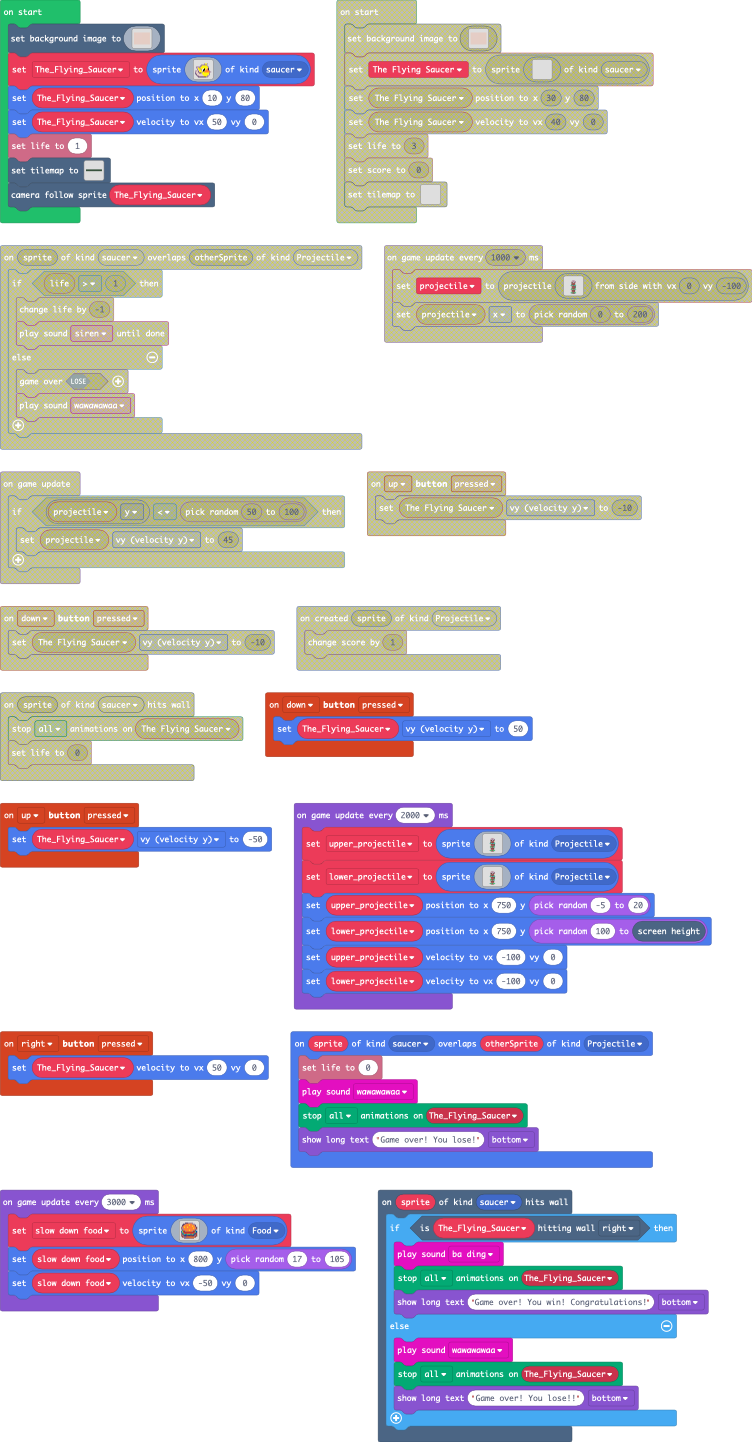
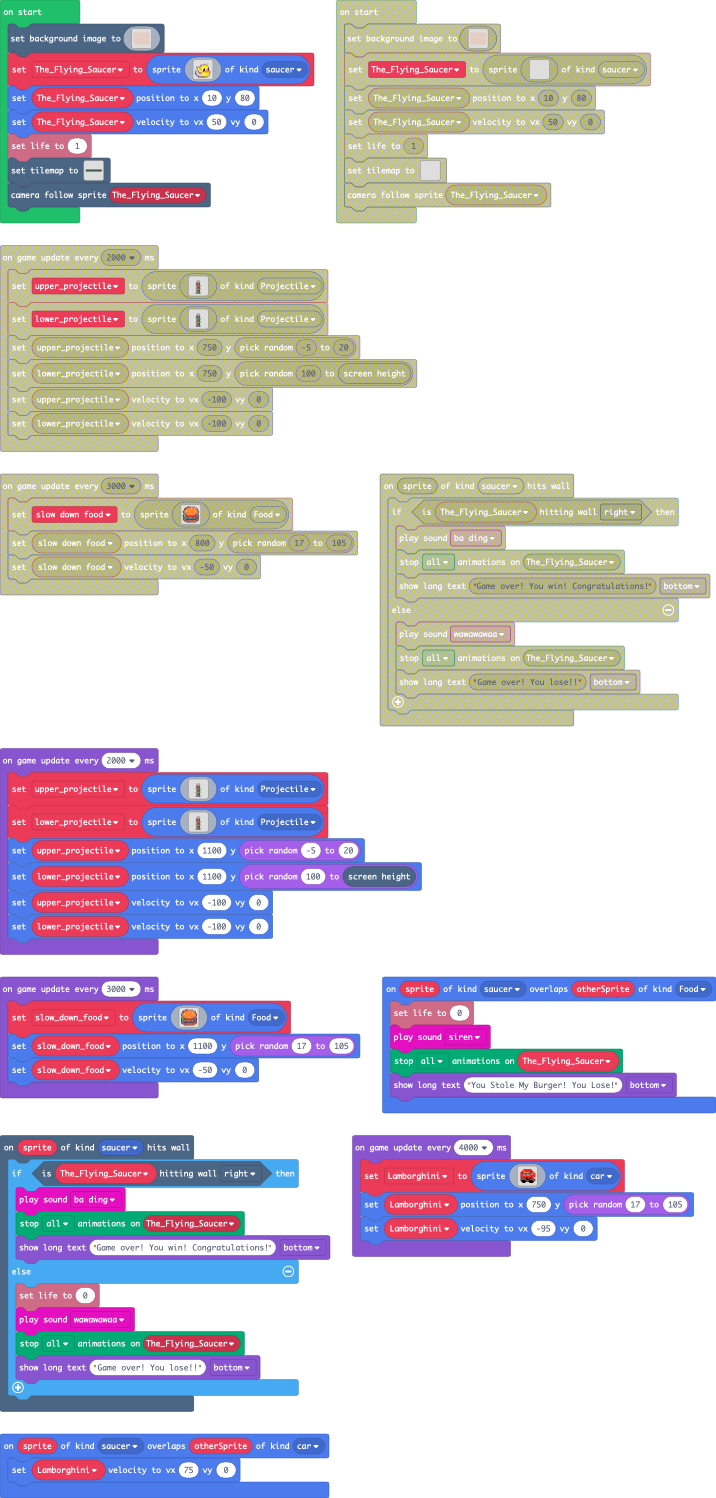
Added a 'booster' and fixed a few things.

diff --git a/main.ts b/main.ts
@@ -1,5 +1,6 @@
 namespace SpriteKind {
     export const saucer = SpriteKind.create()
+    export const car = SpriteKind.create()
 }
 namespace myTiles {
     //% blockIdentity=images._tile
@@ -56,6 +57,7 @@ scene.onHitWall(SpriteKind.saucer, function (sprite) {
         animation.stopAnimation(animation.AnimationTypes.All, The_Flying_Saucer)
         game.showLongText("Game over! You win! Congratulations!", DialogLayout.Bottom)
     } else {
+        info.setLife(0)
         music.wawawawaa.play()
         animation.stopAnimation(animation.AnimationTypes.All, The_Flying_Saucer)
         game.showLongText("Game over! You lose!!", DialogLayout.Bottom)
@@ -64,12 +66,22 @@ scene.onHitWall(SpriteKind.saucer, function (sprite) {
 controller.right.onEvent(ControllerButtonEvent.Pressed, function () {
     The_Flying_Saucer.setVelocity(50, 0)
 })
+sprites.onOverlap(SpriteKind.saucer, SpriteKind.car, function (sprite, otherSprite) {
+    Lamborghini.setVelocity(75, 0)
+})
+sprites.onOverlap(SpriteKind.saucer, SpriteKind.Food, function (sprite, otherSprite) {
+    info.setLife(0)
+    music.siren.play()
+    animation.stopAnimation(animation.AnimationTypes.All, The_Flying_Saucer)
+    game.showLongText("You Stole My Burger! You Lose!", DialogLayout.Bottom)
+})
 controller.up.onEvent(ControllerButtonEvent.Pressed, function () {
     The_Flying_Saucer.vy = -50
 })
 let slow_down_food: Sprite = null
 let lower_projectile: Sprite = null
 let upper_projectile: Sprite = null
+let Lamborghini: Sprite = null
 let The_Flying_Saucer: Sprite = null
 scene.setBackgroundImage(img`
 d d d d d d d d d d d d d d d d d d d d d d d d d d d d d d d d d d d d d d d d d d d d d d d d d d d d d d d d d d d d d d d d d d d d d d d d d d d d d d d d d d d d d d d d d d d d d d d d d d d d d d d d d d d d d d d d d d d d d d d d d d d d d d d d d d d d d d d d d d d d d d d d d d d d d d d d d d d d d d d d 
@@ -197,7 +209,7 @@ The_Flying_Saucer = sprites.create(img`
 . . . . . . . . . . . . . . . . 
 . . . . . . . . . . . . . . . . 
 . . . . . . . . . b 5 5 b . . . 
-. . . . . . b b b b b b . . . . 
+. . . . . 3 b b b b b b . . . . 
 . . . . . b b 5 5 5 5 5 b . . . 
 . b b b b b 5 5 5 5 5 5 5 b . . 
 . b d 5 b 5 5 5 5 5 5 5 5 b . . 
@@ -215,18 +227,18 @@ The_Flying_Saucer.setPosition(10, 80)
 The_Flying_Saucer.setVelocity(50, 0)
 info.setLife(1)
 tiles.setTilemap(tiles.createTilemap(
[2 lines of base64/hex data omitted]
             img`
-. . . . . . . . . . . . . . . . . . . . . . . . . . . . . . . . . . . . . . . . . . . . . . . . . . . . . . . . . . . . . . . . . . . . . . . . . . . . . . . . . . . . . . . . . . . . . . . . . . . 2 
-. . . . . . . . . . . . . . . . . . . . . . . . . . . . . . . . . . . . . . . . . . . . . . . . . . . . . . . . . . . . . . . . . . . . . . . . . . . . . . . . . . . . . . . . . . . . . . . . . . . 2 
-. . . . . . . . . . . . . . . . . . . . . . . . . . . . . . . . . . . . . . . . . . . . . . . . . . . . . . . . . . . . . . . . . . . . . . . . . . . . . . . . . . . . . . . . . . . . . . . . . . . 2 
-. . . . . . . . . . . . . . . . . . . . . . . . . . . . . . . . . . . . . . . . . . . . . . . . . . . . . . . . . . . . . . . . . . . . . . . . . . . . . . . . . . . . . . . . . . . . . . . . . . . 2 
-. . . . . . . . . . . . . . . . . . . . . . . . . . . . . . . . . . . . . . . . . . . . . . . . . . . . . . . . . . . . . . . . . . . . . . . . . . . . . . . . . . . . . . . . . . . . . . . . . . . 2 
-. . . . . . . . . . . . . . . . . . . . . . . . . . . . . . . . . . . . . . . . . . . . . . . . . . . . . . . . . . . . . . . . . . . . . . . . . . . . . . . . . . . . . . . . . . . . . . . . . . . 2 
-. . . . . . . . . . . . . . . . . . . . . . . . . . . . . . . . . . . . . . . . . . . . . . . . . . . . . . . . . . . . . . . . . . . . . . . . . . . . . . . . . . . . . . . . . . . . . . . . . . . 2 
-. . . . . . . . . . . . . . . . . . . . . . . . . . . . . . . . . . . . . . . . . . . . . . . . . . . . . . . . . . . . . . . . . . . . . . . . . . . . . . . . . . . . . . . . . . . . . . . . . . . 2 
-. . . . . . . . . . . . . . . . . . . . . . . . . . . . . . . . . . . . . . . . . . . . . . . . . . . . . . . . . . . . . . . . . . . . . . . . . . . . . . . . . . . . . . . . . . . . . . . . . . . 2 
-. . . . . . . . . . . . . . . . . . . . . . . . . . . . . . . . . . . . . . . . . . . . . . . . . . . . . . . . . . . . . . . . . . . . . . . . . . . . . . . . . . . . . . . . . . . . . . . . . . . 2 
+. . . . . . . . . . . . . . . . . . . . . . . . . . . . . . . . . . . . . . . . . . . . . . . . . . . . . . . . . . . . . . . . . . . . . . . . . . . . . . . . . . . . . . . . . . 
+. . . . . . . . . . . . . . . . . . . . . . . . . . . . . . . . . . . . . . . . . . . . . . . . . . . . . . . . . . . . . . . . . . . . . . . . . . . . . . . . . . . . . . . . . . 
+. . . . . . . . . . . . . . . . . . . . . . . . . . . . . . . . . . . . . . . . . . . . . . . . . . . . . . . . . . . . . . . . . . . . . . . . . . . . . . . . . . . . . . . . . . 
+. . . . . . . . . . . . . . . . . . . . . . . . . . . . . . . . . . . . . . . . . . . . . . . . . . . . . . . . . . . . . . . . . . . . . . . . . . . . . . . . . . . . . . . . . . 
+. . . . . . . . . . . . . . . . . . . . . . . . . . . . . . . . . . . . . . . . . . . . . . . . . . . . . . . . . . . . . . . . . . . . . . . . . . . . . . . . . . . . . . . . . . 
+. . . . . . . . . . . . . . . . . . . . . . . . . . . . . . . . . . . . . . . . . . . . . . . . . . . . . . . . . . . . . . . . . . . . . . . . . . . . . . . . . . . . . . . . . . 
+. . . . . . . . . . . . . . . . . . . . . . . . . . . . . . . . . . . . . . . . . . . . . . . . . . . . . . . . . . . . . . . . . . . . . . . . . . . . . . . . . . . . . . . . . . 
+. . . . . . . . . . . . . . . . . . . . . . . . . . . . . . . . . . . . . . . . . . . . . . . . . . . . . . . . . . . . . . . . . . . . . . . . . . . . . . . . . . . . . . . . . . 
+. . . . . . . . . . . . . . . . . . . . . . . . . . . . . . . . . . . . . . . . . . . . . . . . . . . . . . . . . . . . . . . . . . . . . . . . . . . . . . . . . . . . . . . . . . 
+. . . . . . . . . . . . . . . . . . . . . . . . . . . . . . . . . . . . . . . . . . . . . . . . . . . . . . . . . . . . . . . . . . . . . . . . . . . . . . . . . . . . . . . . . . 
 `,
             [myTiles.tile1,myTiles.tile0,sprites.castle.saplingPine],
             TileScale.Sixteen
@@ -349,10 +361,32 @@ game.onUpdateInterval(2000, function () {
 . . . . . . c e 7 7 e e e e 6 7 e e . . . . . . 
 . . . . . . c e 6 e e e e e e 6 e e . . . . . . 
 `, SpriteKind.Projectile)
-    upper_projectile.setPosition(750, Math.randomRange(-5, 20))
-    lower_projectile.setPosition(750, Math.randomRange(100, scene.screenHeight()))
+    upper_projectile.setPosition(1100, Math.randomRange(-5, 20))
+    lower_projectile.setPosition(1100, Math.randomRange(100, scene.screenHeight()))
     upper_projectile.setVelocity(-100, 0)
     lower_projectile.setVelocity(-100, 0)
+})
+game.onUpdateInterval(4000, function () {
+    Lamborghini = sprites.create(img`
+. . . . . . . . . . . . . . . . 
+. . . . 2 2 2 2 2 2 2 2 . . . . 
+. . . 2 4 2 2 2 2 2 2 c 2 . . . 
+. . 2 c 4 2 2 2 2 2 2 c c 2 . . 
+. 2 c c 4 4 4 4 4 4 2 c c 4 2 d 
+. 2 c 2 e e e e e e e b c 4 2 2 
+. 2 2 e b b e b b b e e b 4 2 2 
+. 2 e b b b e b b b b e 2 2 2 2 
+. e e 2 2 2 e 2 2 2 2 2 e 2 2 2 
+. e e e e e e f e e e f e 2 d d 
+. e e e e e e f e e f e e e 2 d 
+. e e e e e e f f f e e e e e e 
+. e f f f f e e e e f f f e e e 
+. . f f f f f e e f f f f f e . 
+. . . f f f . . . . f f f f . . 
+. . . . . . . . . . . . . . . . 
+`, SpriteKind.car)
+    Lamborghini.setPosition(750, Math.randomRange(17, 105))
+    Lamborghini.setVelocity(-95, 0)
 })
 game.onUpdateInterval(3000, function () {
     slow_down_food = sprites.create(img`
@@ -373,6 +407,6 @@ e e b e c c e e e e e c e b e e
 . e e b b 4 4 4 4 4 4 4 4 e e . 
 . . . c c c c c e e e e e . . . 
 `, SpriteKind.Food)
-    slow_down_food.setPosition(800, Math.randomRange(17, 105))
+    slow_down_food.setPosition(1100, Math.randomRange(17, 105))
     slow_down_food.setVelocity(-50, 0)
 })
